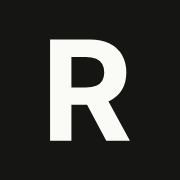
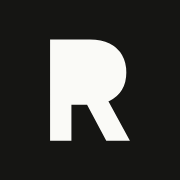
filled in R

Changed region(s): [[0.3889, 0.3056, 0.5833, 0.5]]

diff --git a/CLAUDE.md b/CLAUDE.md
@@ -65,7 +65,7 @@ To add one, make a single-color PNG in `src/assets/images/logos/`: flatten on wh
 
 ## Wordmark and favicon
 
-The wordmark is plain text, "Ran Craycraft" in Inter Tight Bold (self-hosted, so it looks the same everywhere). The favicon (`src/assets/favicon.svg`) and the home-screen icons (`apple-touch-icon.png`, `icon-512.png`) are Inter Tight's bold R in paper on an ink square. Ran tried a filled-in R in the wordmark and favicon and didn't like it, so leave the R as a normal letter. He also passed on a serif R for the favicon or wordmark, so keep both sans.
+The wordmark is plain text, "Ran Craycraft" in Inter Tight Bold (self-hosted, so it looks the same everywhere). The favicon (`src/assets/favicon.svg`) and the home-screen icon (`apple-touch-icon.png`) are Inter Tight's bold R with its hole filled in, in paper on an ink square. The wordmark keeps a normal R, since a filled R there didn't read well. He also passed on a serif R for the favicon or wordmark, so keep both sans.
 
 ## Leadership first
 
